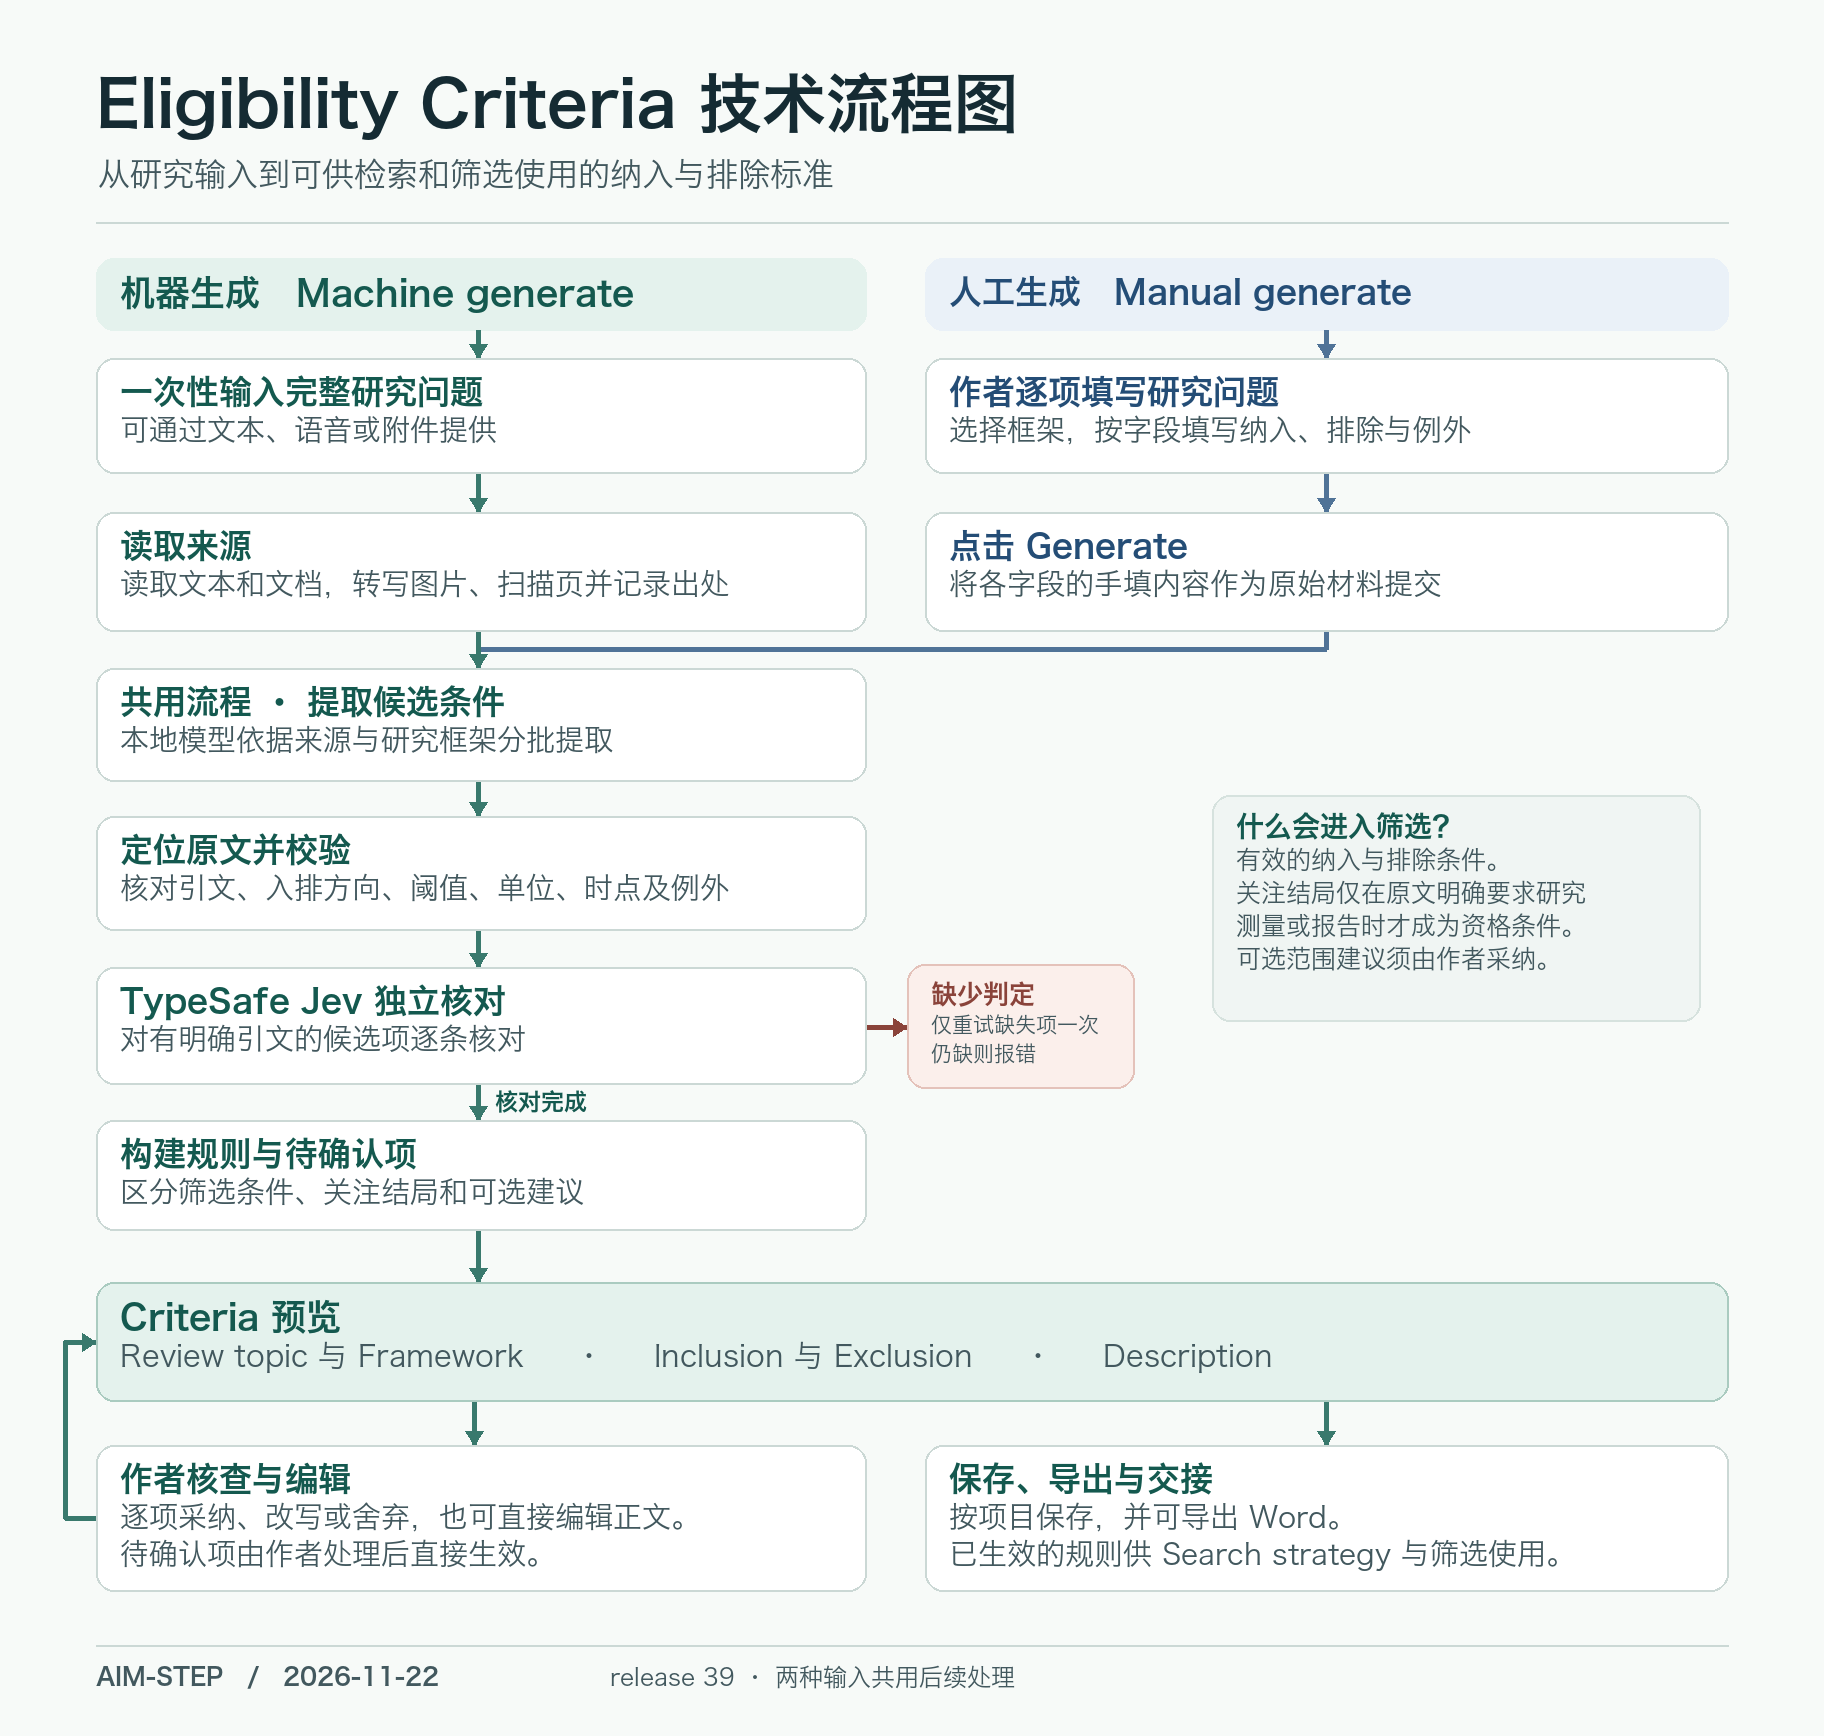
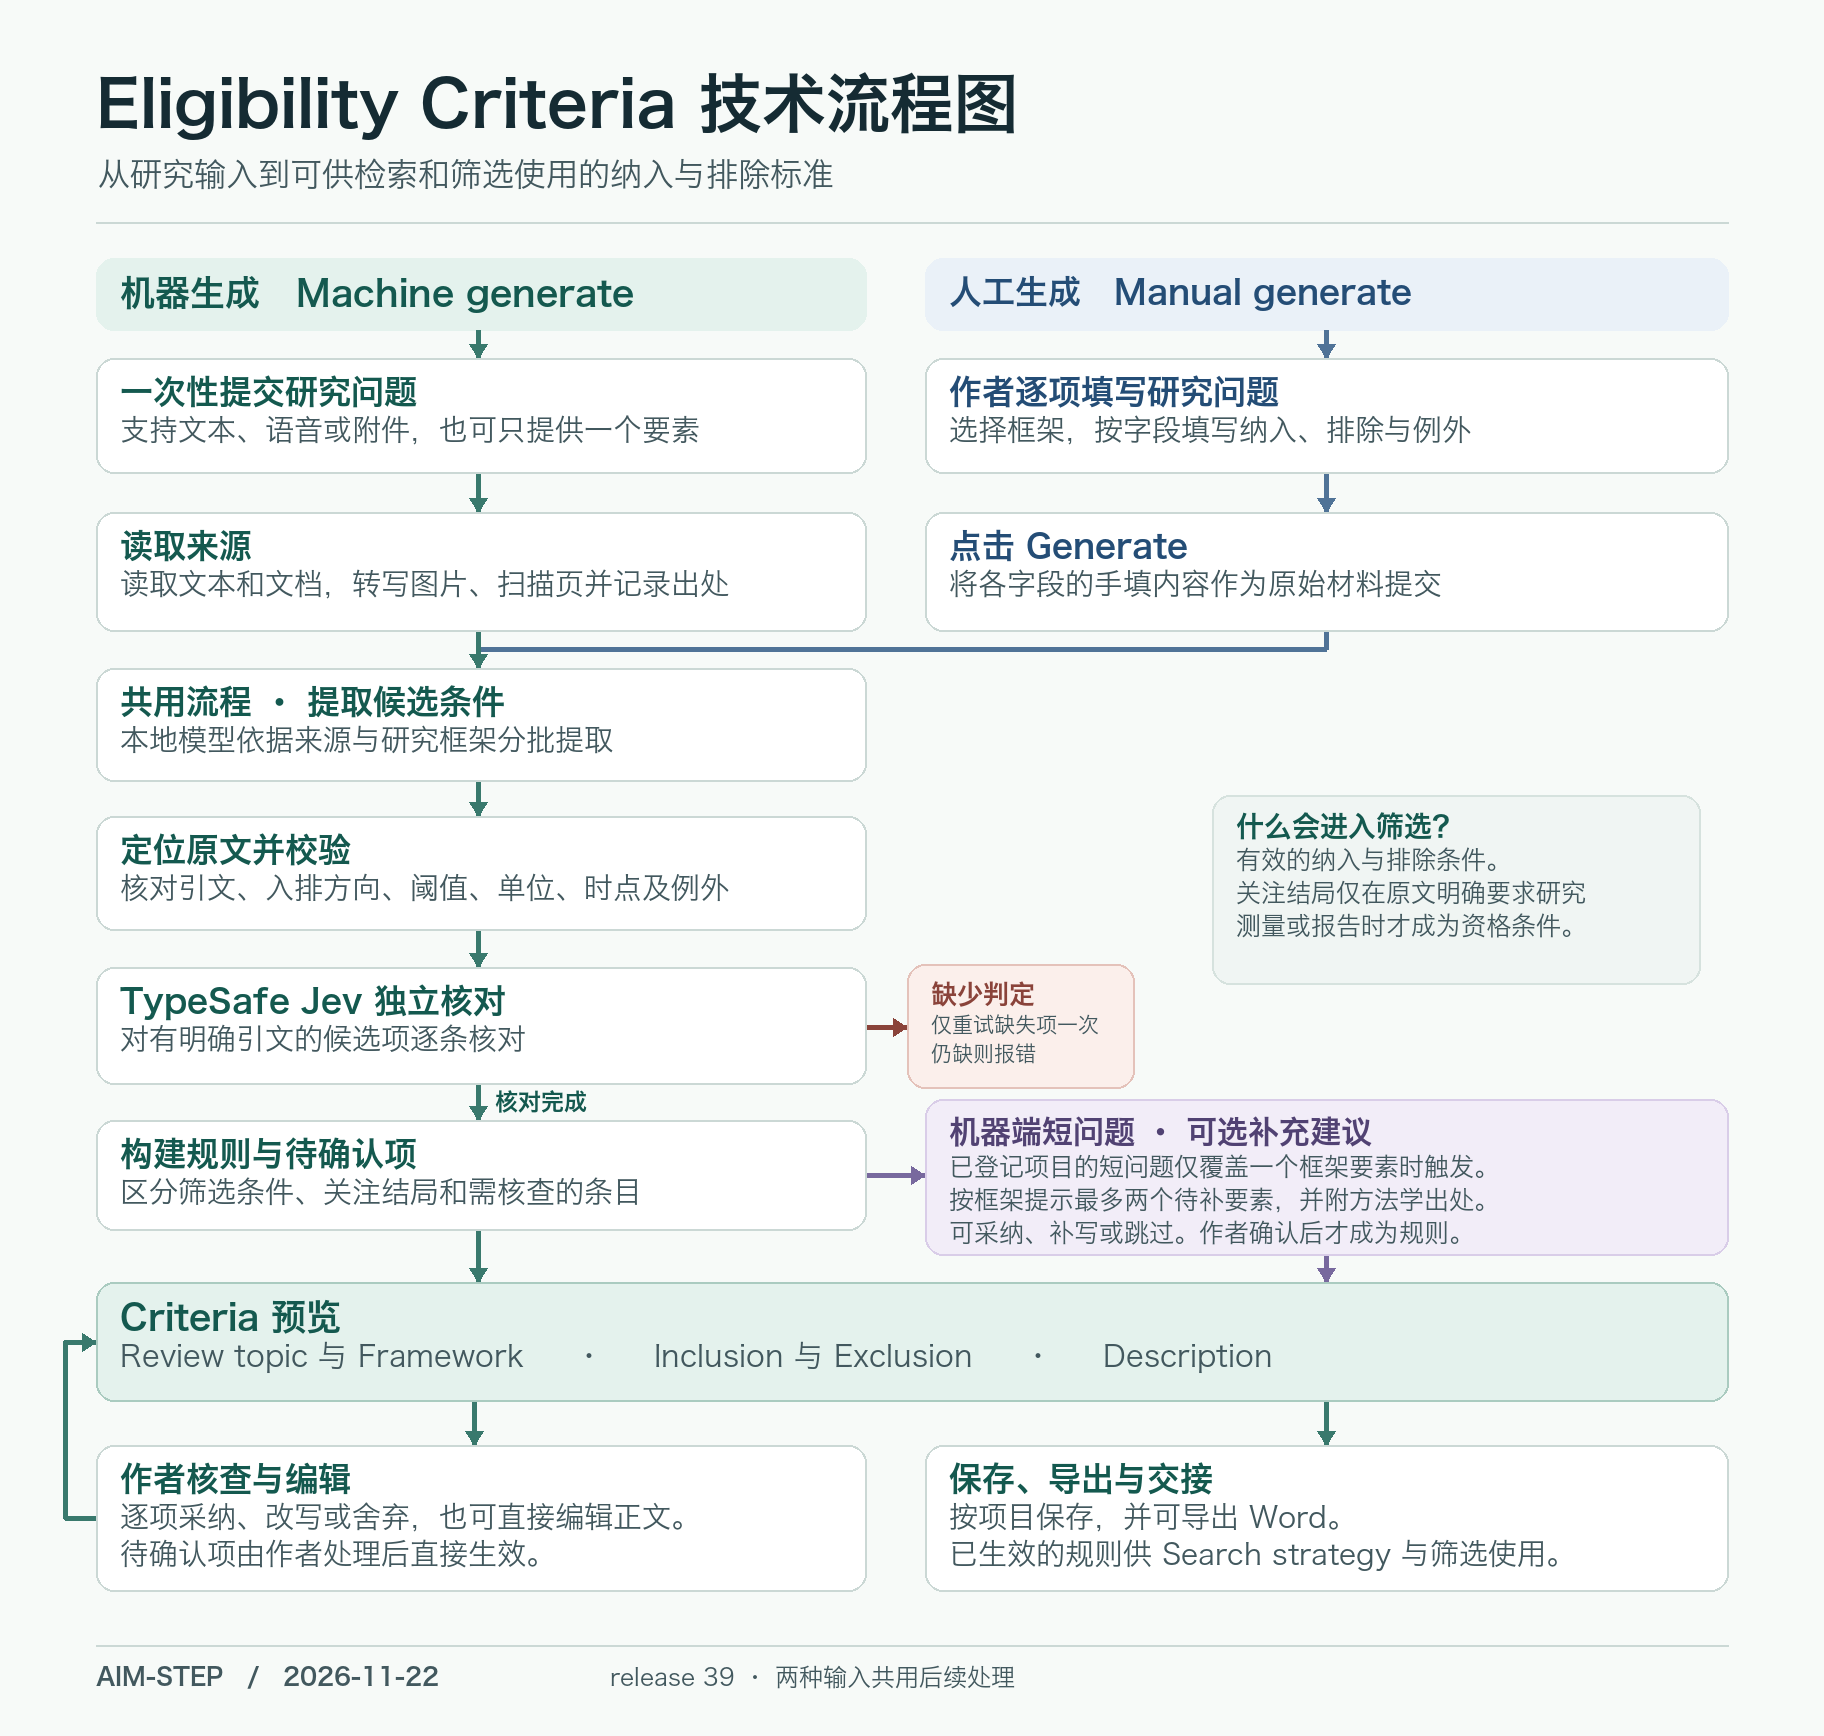
Document optional suggestions for sparse eligibility input

diff --git a/technical-roadmaps/eligibility-criteria/2026-11-22/sources/workflow.py b/technical-roadmaps/eligibility-criteria/2026-11-22/sources/workflow.py
@@ -15,6 +15,9 @@ TEAL_PALE = '#e4f2ed'
 BLUE = '#244d76'
 BLUE_LINE = '#507397'
 BLUE_PALE = '#eaf1f8'
+ADVICE = '#514273'
+ADVICE_LINE = '#78699e'
+ADVICE_PALE = '#f2edf8'
 ERROR = '#8a433a'
 ERROR_PALE = '#fbefeb'
 RULE = '#cbd8d5'
@@ -70,13 +73,15 @@ def render(output):
     draw.line([(1326, 631), (1326, 649), (478, 649)], fill=BLUE_LINE, width=5, joint='curve')
     arrow([(478, 631), (478, 668)])
     arrow([(866, 1027), (907, 1027)], ERROR)
+    arrow([(866, 1175), (925, 1175)], ADVICE_LINE)
+    arrow([(1326, 1255), (1326, 1282)], ADVICE_LINE)
     for start, end in [(330, 358), (473, 512)]:
         arrow([(1326, start), (1326, end)], BLUE_LINE)
     arrow([(474, 1401), (474, 1445)])
     arrow([(1326, 1401), (1326, 1445)])
     arrow([(96, 1518), (65, 1518), (65, 1342), (96, 1342)])
 
-    card(96, 358, 770, 115, '一次性输入完整研究问题', ('可通过文本、语音或附件提供',))
+    card(96, 358, 770, 115, '一次性提交研究问题', ('支持文本、语音或附件，也可只提供一个要素',))
     card(96, 512, 770, 119, '读取来源', ('读取文本和文档，转写图片、扫描页并记录出处',))
     card(96, 668, 770, 113, '共用流程 · 提取候选条件', ('本地模型依据来源与研究框架分批提取',))
     card(96, 816, 770, 114, '定位原文并校验', ('核对引文、入排方向、阈值、单位、时点及例外',))
@@ -84,14 +89,20 @@ def render(output):
     card(907, 964, 227, 124, '缺少判定', ('仅重试缺失项一次', '仍缺则报错'),
          fill=ERROR_PALE, border='#e4c2ba', accent=ERROR, title_size=26, body_size=21)
     text(495, 1090, '核对完成', 23, TEAL, bold=True)
-    card(96, 1120, 770, 110, '构建规则与待确认项', ('区分筛选条件、关注结局和可选建议',))
+    card(96, 1120, 770, 110, '构建规则与待确认项', ('区分筛选条件、关注结局和需核查的条目',))
+
+    card(925, 1099, 803, 156, '机器端短问题 · 可选补充建议',
+         ('已登记项目的短问题仅覆盖一个框架要素时触发。',
+          '按框架提示最多两个待补要素，并附方法学出处。',
+          '可采纳、补写或跳过。作者确认后才成为规则。'),
+         fill=ADVICE_PALE, border='#d9cde8', accent=ADVICE, title_size=31, body_size=25)
 
     card(925, 358, 803, 115, '作者逐项填写研究问题', ('选择框架，按字段填写纳入、排除与例外',), accent=BLUE)
     card(925, 512, 803, 119, '点击 Generate', ('将各字段的手填内容作为原始材料提交',), accent=BLUE)
 
-    card(1212, 795, 488, 226, '什么会进入筛选？',
+    card(1212, 795, 488, 189, '什么会进入筛选？',
          ('有效的纳入与排除条件。', '关注结局仅在原文明确要求研究',
-          '测量或报告时才成为资格条件。', '可选范围建议须由作者采纳。'),
+          '测量或报告时才成为资格条件。'),
          fill='#f0f5f3', border='#d6e2de', title_size=28, body_size=25)
 
     card(96, 1282, 1632, 119, 'Criteria 预览',

diff --git a/technical-roadmaps/eligibility-criteria/2026-11-22/README.md b/technical-roadmaps/eligibility-criteria/2026-11-22/README.md
@@ -1,10 +1,12 @@
 # Eligibility Criteria 技术流程图
 
-![完整问题和逐项填写两种输入汇入同一套提取、核对、作者确认与交接流程](figures/eligibility-workflow.png)
+![两种输入共用提取、核对与交接流程，机器端单要素短问题可触发补充建议](figures/eligibility-workflow.png)
 
 [打开高清 PNG](figures/eligibility-workflow.png) · [制图源码](sources/workflow.py)
 
 本图对应 `20261122-criteria-release-39`。机器生成接收一次性提交的完整研究问题。人工生成保留作者选定的框架及逐项填写的纳入、排除和例外。输入准备完成后，两种方式共用候选提取、原文校验、TypeSafe Jev 核对与标准构建流程。
+
+对符合条件的已登记项目，机器生成收到只覆盖一个框架要素的短问题时，可在 **Criteria** 预览中显示最多两项带方法学出处的补充建议。作者可以采纳、补写或跳过。经作者确认的内容才会成为筛选规则。当前短问题识别针对机器端的单要素短文本，人工表单提交时附加的分段标题会使它无法匹配这一识别条件。
 
 作者对待确认项的选择直接应用到标准和预览，无需再次调用模型。点击 **Clear** 会保留问题框内容，清除该项目的标准、草稿和附件，并使清除前的任务无法回写。
 
